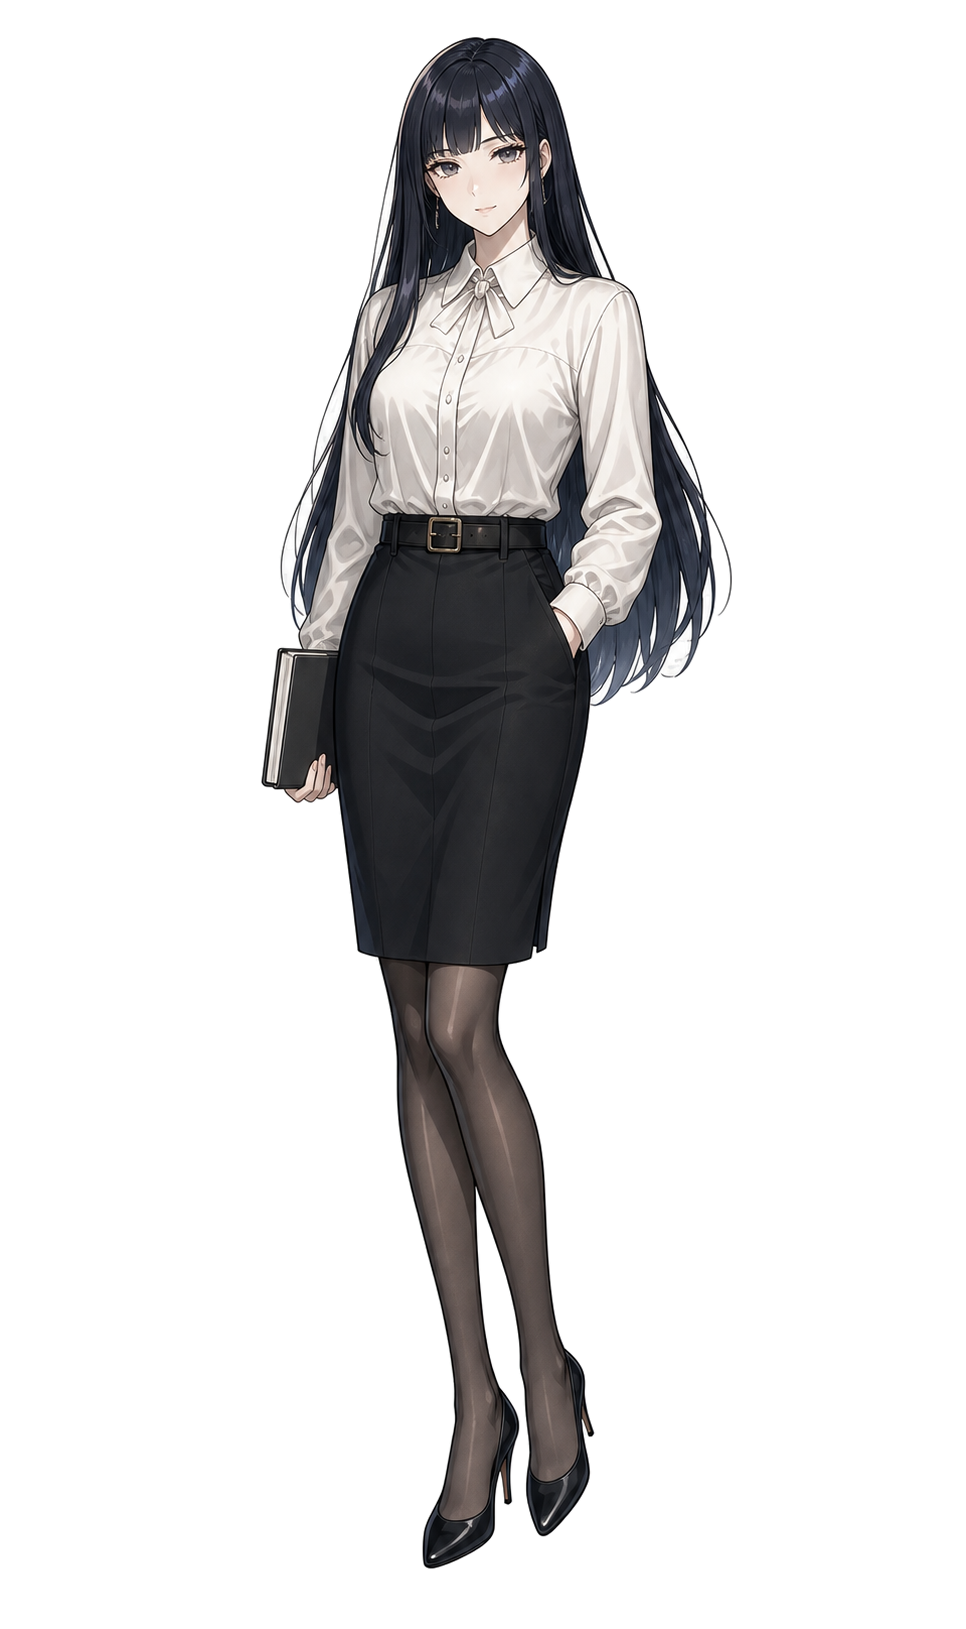
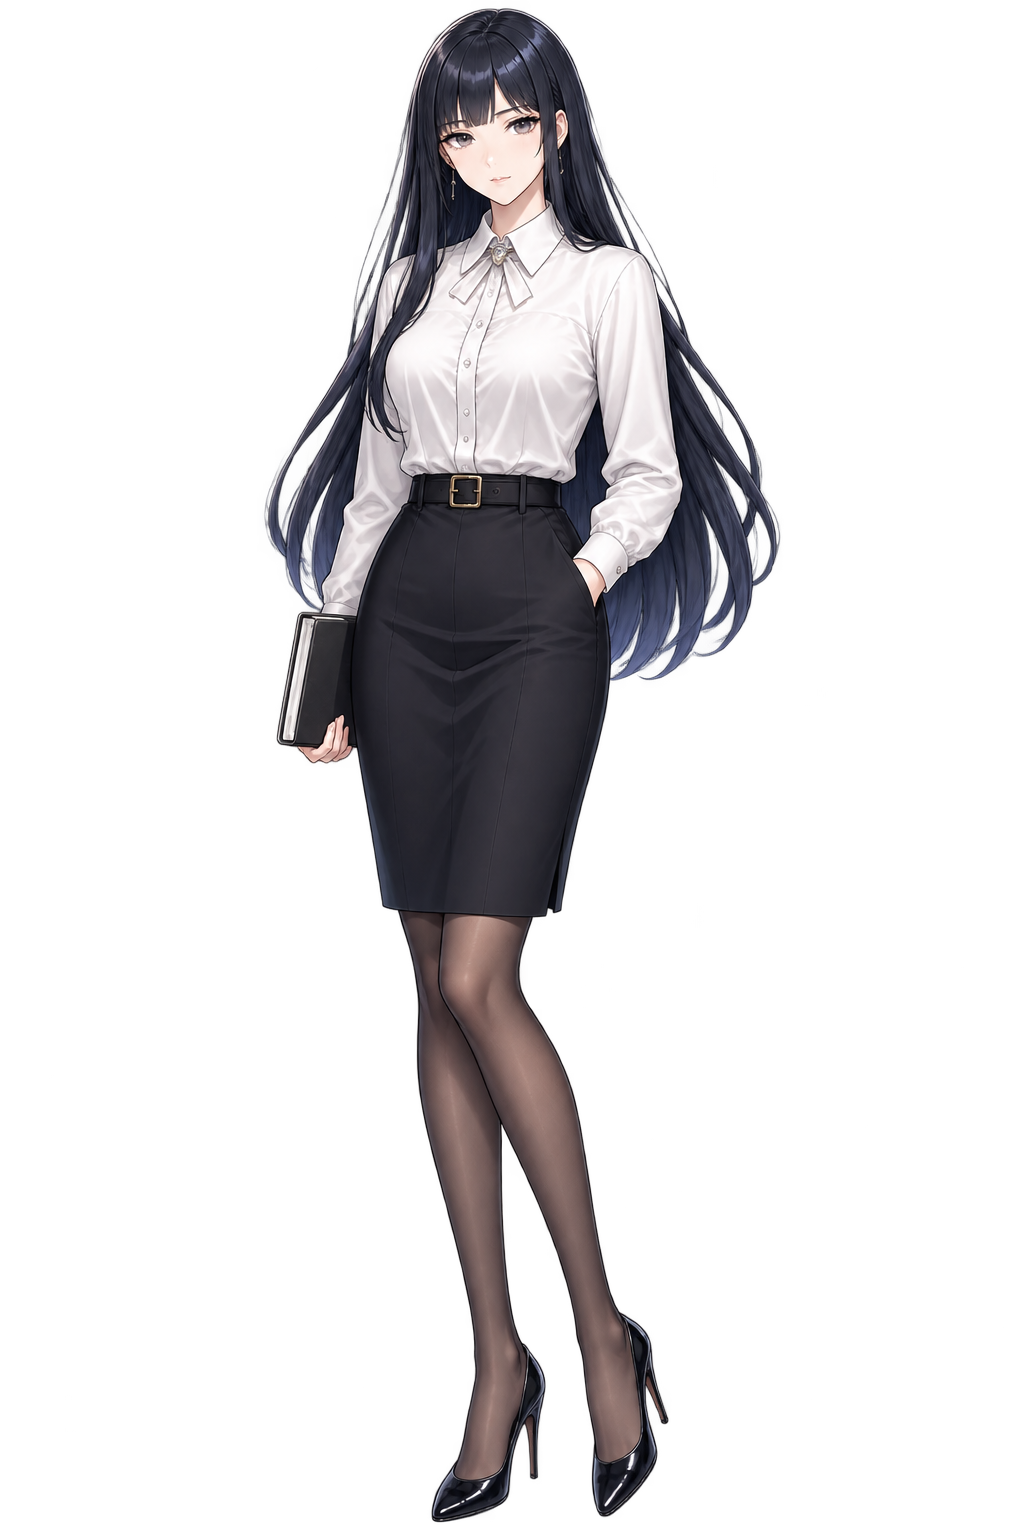
Polish onboarding and restore game controls

Changed region(s): [[0.2484, 0.0, 0.7764, 0.5938], [0.3727, 0.5625, 0.6522, 1.0]]

diff --git a/game.js b/game.js
@@ -676,10 +676,10 @@ function renderModeSetup() {
 function renderGirlfriendSetup() {
   document.body.classList.remove("mode-select-stage");
   onboarding.step=2; setOnboardingProgress(2);
-  const candidates = HEROINE_PROFILES.slice(0,3);
+  const candidates = ["haeun","nari","yuri"].map(id=>HEROINE_PROFILES.find(profile=>profile.id===id)).filter(Boolean);
   $("#onboardingContent").innerHTML = `
     <header class="setup-heading"><span>GIRLFRIEND SELECT</span><h1>여자친구 캐릭터 선택</h1><p>보라색 머리 캐릭터를 선택한 뒤 MBTI와 직업을 확인하세요. 이름은 그대로 유지됩니다.</p></header>
-    <div class="setup-card-grid heroine-select-grid">${candidates.map((profile,index)=>`<button class="setup-character-card ${onboarding.partner?.heroineId===profile.id?"selected":""}" data-heroine="${profile.id}" type="button" ${index?"disabled":""}><img src="${profile.referenceImage}?v=7" alt="${escapeHtml(profile.name)}"><strong>${escapeHtml(profile.name)}</strong><span>${index?"준비 중 · 선택 불가":"선택 가능"}</span></button>`).join("")}</div>
+    <div class="setup-card-grid heroine-select-grid">${candidates.map((profile,index)=>{const image=profile.id==="yuri"?"assets/heroines/yuri/yuri-ex-girlfriend-2d.png?v=2":`${profile.referenceImage}?v=7`;return `<button class="setup-character-card ${onboarding.partner?.heroineId===profile.id?"selected":""}" data-heroine="${profile.id}" type="button" ${index?"disabled":""}><img src="${image}" alt="${escapeHtml(profile.name)}"><strong>${escapeHtml(profile.name)}</strong><span>${index?"준비 중 · 선택 불가":"선택 가능"}</span></button>`;}).join("")}</div>
     <div class="roll-panel ${onboarding.partner?"":"locked"}">
       <div class="roll-row"><div><small>MBTI</small><b id="girlfriendTraitRoll">${onboarding.girlfriendTraitsReady?escapeHtml(onboarding.partner.mbti):"버튼을 눌러 MBTI 선택"}</b></div><button id="rollGirlfriendTraits" type="button" ${onboarding.partner?"":"disabled"}>MBTI 랜덤 선택</button></div>
       <div class="roll-row"><div><small>CAREER</small><b id="girlfriendJobRoll">${onboarding.girlfriendJobReady?escapeHtml(onboarding.partner.career.name):"여자친구의 직업"}</b></div><button id="rollGirlfriendJob" type="button" ${onboarding.partner?"":"disabled"}>직업 랜덤 선택</button></div>
@@ -717,15 +717,16 @@ function renderPlayerSetup() {
   $("#onboardingContent").innerHTML=`
     <header class="setup-heading"><span>PLAYER SETUP</span><h1>${storyMode?"이름과 직업 설정":"나의 외모 선택"}</h1><p>${storyMode?"STORY MODE의 주인공 외형은 고정됩니다. 이름과 직업만 선택해 주세요.":"외형과 이름, 직업은 게임의 능력치와 대사에 그대로 적용됩니다."}</p></header>
     <div class="setup-card-grid player-select-grid ${storyMode?"story-player-locked":""}">${PLAYER_ARCHETYPES.map((entry)=>{const fixed=storyMode&&entry.id==="balanced",locked=storyMode&&!fixed;return `<button class="setup-character-card ${onboarding.playerArchetype===entry.id?"selected":""} ${locked?"story-locked":""}" data-player="${entry.id}" type="button" ${storyMode?'disabled aria-disabled="true"':""}><img src="${entry.image}" alt="${entry.name}"><strong>${entry.name}${entry.premium?" · PREMIUM":""}</strong><span>${fixed?"STORY MODE 고정":locked?"🔒 STORY MODE 잠금":`능력 ${entry.abilityRating} · 외모 ${entry.appearanceRating}`}</span><small>${locked?"FREE MODE에서 선택할 수 있습니다.":entry.description}</small></button>`;}).join("")}</div>
-    <div class="player-input-panel"><label for="playerNameInput">내 이름 <small>최대 3글자 · 한글 또는 영문</small></label><div class="player-name-roll"><input id="playerNameInput" value="${escapeHtml(onboarding.playerName)}" placeholder="이름" autocomplete="off" spellcheck="false" inputmode="text" aria-describedby="playerNameNotice"><button id="rollPlayerName" type="button">내 이름 랜덤 선택</button></div><small id="playerNameNotice" class="player-name-notice" aria-live="polite"></small><div class="roll-row"><div><small>MY CAREER</small><b id="playerJobRoll">${onboarding.playerJob?escapeHtml(onboarding.playerJob.name):"버튼을 눌러 직업 선택"}</b></div><button id="rollPlayerJob" type="button">내 직업 랜덤 선택</button></div></div>
+    <div class="player-input-panel"><label for="playerNameInput">남자친구 이름 <small>최대 3글자 · 한글 또는 영문</small></label><div class="player-name-roll"><input id="playerNameInput" value="${escapeHtml(onboarding.playerName)}" placeholder="이름을 직접 입력하세요" autocomplete="off" spellcheck="false" inputmode="text" aria-describedby="playerNameNotice"><button id="rollPlayerName" type="button">내 이름 랜덤 선택</button></div><small id="playerNameNotice" class="player-name-notice" aria-live="polite"></small><div class="roll-row"><div><small>MY CAREER</small><b id="playerJobRoll">${onboarding.playerJob?escapeHtml(onboarding.playerJob.name):"버튼을 눌러 직업 선택"}</b></div><button id="rollPlayerJob" type="button">내 직업 랜덤 선택</button></div></div>
     <button id="playerSetupNext" class="primary-button setup-next" type="button" ${onboarding.playerArchetype&&onboarding.playerName&&onboarding.playerJob?"":"disabled"}>최종 결과 확인</button>`;
   if(!storyMode)document.querySelectorAll("[data-player]").forEach((button)=>button.addEventListener("click",()=>{const archetype=PLAYER_ARCHETYPES.find((entry)=>entry.id===button.dataset.player);if(archetype.premium)showPremiumConfirmation(archetype);else selectPlayerArchetype(archetype.id);}));
   const nameInput=$("#playerNameInput");
   let composingName=false;
-  const commitPlayerName=()=>{const result=sanitizePlayerNameInput(nameInput.value);onboarding.playerName=result.value;nameInput.value=result.value;$("#playerNameNotice").textContent=result.reason;$("#playerNameNotice").classList.toggle("warning",Boolean(result.reason));$("#playerSetupNext").disabled=!(onboarding.playerArchetype&&onboarding.playerName&&onboarding.playerJob);};
+  const commitPlayerName=(normalizeField=false)=>{const result=sanitizePlayerNameInput(nameInput.value);onboarding.playerName=result.value;if(normalizeField)nameInput.value=result.value;$("#playerNameNotice").textContent=result.reason;$("#playerNameNotice").classList.toggle("warning",Boolean(result.reason));$("#playerSetupNext").disabled=!(onboarding.playerArchetype&&onboarding.playerName&&onboarding.playerJob);};
   nameInput.addEventListener("compositionstart",()=>{composingName=true;});
-  nameInput.addEventListener("compositionend",()=>{composingName=false;commitPlayerName();});
-  nameInput.addEventListener("input",()=>{if(!composingName)commitPlayerName();});
+  nameInput.addEventListener("compositionend",()=>{composingName=false;commitPlayerName(true);});
+  nameInput.addEventListener("input",()=>{if(!composingName)commitPlayerName(false);});
+  nameInput.addEventListener("blur",()=>commitPlayerName(true));
   $("#rollPlayerName").addEventListener("click",()=>{onboarding.playerName=getRandomPlayerName(onboarding.playerName);$("#playerNameInput").value=onboarding.playerName;$("#playerNameNotice").textContent="200개 이름 중 하나를 선택했어요.";$("#playerNameNotice").classList.remove("warning");$("#playerSetupNext").disabled=!(onboarding.playerArchetype&&onboarding.playerName&&onboarding.playerJob);});
   $("#rollPlayerJob").addEventListener("click",(event)=>runRoll(event.currentTarget,$("#playerJobRoll"),JOBS.map((job)=>job.name),()=>{onboarding.playerJob=generateJob();$("#playerSetupNext").disabled=!(onboarding.playerArchetype&&onboarding.playerName);return onboarding.playerJob.name;}));
   $("#playerSetupNext").addEventListener("click",renderSetupSummary);
@@ -847,7 +848,7 @@ function render() {
   $("#affectionValue").textContent = Math.round(state.affection); $("#trustValue").textContent = Math.round(state.trust);
   $("#affectionBar").style.width = `${state.affection/10}%`; $("#trustBar").style.width = `${state.trust/10}%`;
   const traitRows = getVisibleTraitRows(state); const revealedCount = traitRows.filter(row => row.revealed).length;
-  $("#moneyValue").textContent = money(state.money); $("#jobValue").textContent = `${state.player.name} · ${state.job.name} · Lv.${state.jobLevel}`; $("#traitProgress").textContent = `${revealedCount} / 5`;
+  $("#moneyValue").textContent = money(state.money); $("#traitProgress").textContent = `${revealedCount} / 5`;
   $("#playerProfileImage").src=state.player.image;$("#playerProfileImage").alt=`${state.player.name} 주인공 이미지`;$("#playerProfileName").textContent=state.player.name;$("#playerProfileJob").textContent=state.job.name;
   $("#lifeStatus").textContent = state.fatigue >= 70 ? "피로가 누적되는 중" : state.stress > 75 ? "한계에 가까움" : state.energy < 25 ? "휴식이 필요함" : state.confidence >= 70 ? "자신감이 넘치는 중" : state.affection > 750 ? "사랑이 깊어지는 중" : "나쁘지 않은 하루";
   $("#traitList").innerHTML = traitRows.map(row => row.revealed ? `<div class="trait"><span>${row.name}</span><b>${row.value}</b></div>` : `<div class="trait locked"><span>${row.name}</span><b>${row.confidence ? `${row.hint} · ${row.confidence}%` : "???"}</b></div>`).join("");
@@ -1397,7 +1398,7 @@ function renderGameTools() {
     const equipped=getEquippedHeroineOutfit(state),outfits=HEROINE_OUTFITS.filter(item=>item.heroineId===state.partner.heroineId);
     content.innerHTML=`<div class="game-tools-intro"><b>${escapeHtml(state.partner.name)} 전체 의상</b><span>잠금·보유 조건과 관계없이 미리 보고 바로 선택할 수 있습니다.</span></div><div class="tools-outfit-grid">${outfits.map((outfit,index)=>`<button type="button" data-tools-outfit="${outfit.id}" class="tools-outfit-card ${equipped?.id===outfit.id?"selected":""}"><img src="${outfitImageUrl(outfit)}" alt="${escapeHtml(outfit.name)}" loading="lazy"><span>${outfit.eventOnly?"이벤트 의상":String(index+1).padStart(2,"0")}</span><b>${escapeHtml(outfit.name.replace(`${state.partner.name} · `,""))}</b><small>${outfit.eventOnly?"근사한 데이트 10회 보상":money(outfit.price)} · ${equipped?.id===outfit.id?"현재 착용 중":"이 의상 선택"}</small></button>`).join("")}</div>`;
   }else if(gameToolsTab==="yuri"){
-    content.innerHTML=`<div class="game-tools-intro"><b>전여자친구 · 유리</b><span>특별 이벤트에서 등장하는 유리를 미리 확인하고 가운데 패널 이벤트를 실행할 수 있습니다.</span></div><article class="tools-yuri-card"><div class="tools-yuri-media"><img src="assets/heroines/yuri/yuri-ex-girlfriend-2d.png" alt="전여자친구 유리"><video src="assets/heroines/yuri/yuri-ex-girlfriend-2d_transparent.webm?v=1" autoplay loop muted playsinline aria-label="전여자친구 유리 특별 이벤트 영상"></video></div><div class="tools-yuri-copy"><span>SPECIAL EVENT CHARACTER</span><h3>전여자친구 유리</h3><p>고서 복원가 · 차분하고 쉽게 속내를 읽을 수 없는 옛 연인</p>${yuriEvent?`<button type="button" data-tools-yuri-event="${yuriEvent.id}">가운데 패널에서 특별 이벤트 실행</button>`:`<small>연결된 특별 이벤트가 없습니다.</small>`}</div></article>`;
+    content.innerHTML=`<div class="game-tools-intro"><b>전여자친구 · 유리</b><span>특별 이벤트에서 등장하는 유리를 미리 확인하고 가운데 패널 이벤트를 실행할 수 있습니다.</span></div><article class="tools-yuri-card"><div class="tools-yuri-media"><img src="assets/heroines/yuri/yuri-ex-girlfriend-2d.png?v=2" alt="전여자친구 유리"><video src="assets/heroines/yuri/yuri-ex-girlfriend-2d_transparent.webm?v=1" autoplay loop muted playsinline aria-label="전여자친구 유리 특별 이벤트 영상"></video></div><div class="tools-yuri-copy"><span>SPECIAL EVENT CHARACTER</span><h3>전여자친구 유리</h3><p>고서 복원가 · 차분하고 쉽게 속내를 읽을 수 없는 옛 연인</p>${yuriEvent?`<button type="button" data-tools-yuri-event="${yuriEvent.id}">가운데 패널에서 특별 이벤트 실행</button>`:`<small>연결된 특별 이벤트가 없습니다.</small>`}</div></article>`;
   }else if(gameToolsTab==="events"){
     const groups=SITUATION_EVENTS.reduce((result,event)=>{(result[event.categoryLabel]??=[]).push(event);return result;},{});
     const invitation=getPendingLateNightInvitation(state),invitationStatus=invitation?"메시지 도착":state.nightState?.lateNightInvitation?.status==="completed"?"완료":state.day>=LATE_NIGHT_INVITATION_MIN_DAY?"발생 가능":"DAY 6 잠금";

diff --git a/styles.css b/styles.css
@@ -202,6 +202,9 @@ body.ui-classic-mode{overflow:auto;background:var(--bg)}
 .setup-character-card.selected{border:4px solid #cf315f;background:#fff8fb;box-shadow:0 0 0 3px #f5b4c8,0 22px 52px #8c315044;transform:translateY(-5px)}
 .setup-character-card.selected::after{content:"✓ 선택됨";position:absolute;z-index:2;top:14px;right:14px;padding:7px 11px;border:2px solid #fff;border-radius:999px;background:#cf315f;color:#fff;box-shadow:0 6px 18px #70263e55;font:700 10px Outfit;letter-spacing:.04em}
 .player-name-roll{display:grid;grid-template-columns:minmax(0,1fr) auto;gap:9px}.player-name-roll input{width:100%;min-width:0;padding:14px;border:1px solid #ddccd4;border-radius:12px;background:#fff;font-size:16px}.player-name-roll input:focus{outline:0;border-color:#d45579;box-shadow:0 0 0 3px #e8638718}.player-name-roll button{padding:0 16px;border:1px solid #decbd4;border-radius:12px;background:#fff5f8;color:#8a3f59;font-weight:700;cursor:pointer}.player-name-roll button:hover{border-color:#d45579;background:#ffeaf1}@media(max-width:520px){.player-name-roll{grid-template-columns:1fr}.player-name-roll button{min-height:42px}}
+
+/* Keep every onboarding random-selection control equally prominent. */
+.player-name-roll{grid-template-columns:minmax(0,1fr) 190px}.player-name-roll input{position:relative;z-index:1;box-sizing:border-box;pointer-events:auto;user-select:text}.player-name-roll button,.roll-row button{box-sizing:border-box;width:190px;min-height:48px;padding:0 16px;font-size:12px;font-weight:700}.player-input-panel .roll-row button{flex:0 0 190px}@media(max-width:760px){.player-name-roll button,.roll-row button,.player-input-panel .roll-row button{width:100%;flex-basis:auto}}
 .player-name-notice{min-height:16px;color:#7f7480;font-size:10px;line-height:1.45}.player-name-notice.warning{color:#c23f5d;font-weight:700}
 .conversation-effect-limit{margin:12px 0 0!important;color:#8b7d86!important;font-size:10px;text-align:center}
 @media(max-width:760px){.onboarding-screen{padding-top:12px}.heroine-select-grid,.player-select-grid{grid-template-columns:1fr}.setup-character-card{grid-template-columns:112px 1fr;align-items:center;padding:0 12px 0 0}.setup-character-card img{grid-row:1/4;width:112px;height:150px}.setup-character-card strong,.setup-character-card span,.setup-character-card small{margin:0}.roll-row{align-items:stretch;flex-direction:column}.roll-row button{width:100%}.setup-summary{grid-template-columns:1fr}.setup-summary>img{height:330px}.setup-summary>div:not(.summary-partner){padding:0 20px 120px}.summary-partner{right:20px;bottom:20px;left:20px}.story-intro-copy{right:3%;bottom:3%;left:3%;width:auto}.story-intro-copy h2{font-size:20px}}
@@ -794,6 +797,12 @@ body.ui-classic-mode{overflow:auto;background:var(--bg)}
 .girlfriend-wardrobe-empty{display:grid;grid-template-columns:32px 1fr;grid-template-rows:auto auto;align-content:center;column-gap:9px;width:100%;min-height:88px;padding:0 12px;border:1px dashed #dfd3da;border-radius:13px;color:#8d7f88}.girlfriend-wardrobe-empty>span{grid-row:1/3;font-size:24px}.girlfriend-wardrobe-empty>b{font-size:10px}.girlfriend-wardrobe-empty>small{font-size:8px}
 .main-quick-actions{display:grid;grid-template-columns:1fr 1fr;gap:8px;margin-top:2px;padding-top:7px;border-top:1px solid var(--line)}.main-quick-button{display:grid;grid-template-columns:24px minmax(0,1fr);grid-template-rows:auto auto;align-items:center;column-gap:7px;min-width:0;padding:8px 10px;border:1px solid #eadfe6;border-radius:12px;background:#faf7f9;color:var(--ink);text-align:left;cursor:pointer;transition:.18s}.main-quick-button>span{grid-row:1/3;display:grid;place-items:center;width:24px;height:24px;border-radius:8px;background:#f5e7ed;font-size:13px}.main-quick-button b{overflow:hidden;font-size:9px;white-space:nowrap;text-overflow:ellipsis}.main-quick-button small{overflow:hidden;color:var(--muted);font-size:7px;white-space:nowrap;text-overflow:ellipsis}.main-quick-button:hover,.main-quick-button:focus-visible{border-color:var(--pink);background:#fff5f8;transform:translateY(-1px)}.girlfriend-warehouse-panel{position:relative}
 .purchased-item-storage{display:grid;gap:7px;margin-top:7px;padding-top:7px;border-top:1px solid var(--line)}.purchased-storage-title{display:flex;align-items:center;justify-content:space-between}.purchased-storage-title h3{margin:0;font-size:10px}.purchased-storage-title span{color:var(--muted);font-size:8px}.purchased-storage-grid{display:grid;grid-template-columns:1fr 1fr;gap:8px}.purchased-owner-group{display:grid;grid-template-columns:64px minmax(0,1fr);align-items:center;gap:7px;min-width:0;padding:6px;border:1px solid #eadfe6;border-radius:12px;background:#faf7f9}.purchased-owner-group>header{display:grid;justify-items:center;gap:3px;min-width:0;color:var(--pink)}.purchased-owner-group>header span{display:grid;place-items:center;width:24px;height:24px;border-radius:8px;background:#f6e8ee}.purchased-owner-group>header b{overflow:hidden;max-width:60px;color:var(--ink);font-size:8px;text-overflow:ellipsis;white-space:nowrap}.purchased-owner-items{display:grid;grid-template-columns:repeat(3,minmax(0,1fr));gap:5px;min-width:0}.purchased-item-slot{display:grid;justify-items:center;align-content:center;gap:3px;min-width:0;height:64px;padding:3px;border:1px solid #e8dfe4;border-radius:9px;background:#fff;color:var(--ink);cursor:pointer}.purchased-item-slot img{display:block;width:38px;height:42px;object-fit:contain}.purchased-item-slot>span{display:grid;place-items:center;width:38px;height:42px;font-size:23px}.purchased-item-slot b{overflow:hidden;width:100%;font-size:7px;text-align:center;text-overflow:ellipsis;white-space:nowrap}.purchased-item-slot:hover,.purchased-item-slot:focus-visible{border-color:var(--pink);background:#fff4f7;outline:0}.purchased-item-slot.empty{border-style:dashed;color:#b8abb2;cursor:default}.purchased-item-slot.empty i{font-size:18px;font-style:normal}.life-quick-actions{display:grid;grid-template-columns:1fr 1fr;gap:7px;margin:4px 0 12px}.life-quick-button{display:grid;grid-template-columns:27px minmax(0,1fr);grid-template-rows:auto auto;align-items:center;gap:2px 7px;min-width:0;padding:9px 8px;border:1px solid #e9dfe5;border-radius:12px;background:#faf7f9;color:var(--ink);text-align:left;cursor:pointer}.life-quick-button>span{grid-row:1/3;display:grid;place-items:center;width:27px;height:27px;border-radius:9px;background:#f3e8ee;font-size:13px}.life-quick-button b,.life-quick-button small{overflow:hidden;text-overflow:ellipsis;white-space:nowrap}.life-quick-button b{font-size:9px}.life-quick-button small{color:var(--muted);font-size:7px}.life-quick-button:hover,.life-quick-button:focus-visible{border-color:var(--pink);background:#fff3f7;outline:0}.modal.item-detail-active .modal-card{width:min(420px,92vw);max-height:88dvh;padding:26px}.stored-item-detail{display:grid;justify-items:center;text-align:center}.stored-item-detail>.eyebrow{justify-self:start}.stored-item-detail>img{display:block;width:min(190px,52vw);height:210px;margin:8px 0 12px;object-fit:contain;border-radius:17px;background:#f6f1f4}.stored-item-detail-icon{display:grid;place-items:center;width:160px;height:170px;margin:8px 0 12px;border-radius:17px;background:#f6f1f4;font-size:68px}.stored-item-detail h2{margin:2px 0 5px;font-size:22px}.stored-item-detail p{margin:0;color:var(--muted);font-size:12px}.stored-item-meta{display:flex;justify-content:space-between;width:100%;margin:14px 0;padding:11px 13px;box-sizing:border-box;border-radius:11px;background:#f7f3f5;font-size:11px}.stored-item-detail>.primary-button{width:100%;margin:0}
+
+/* Right-side life panel actions use one full-width row each. */
+.life-quick-actions{grid-template-columns:1fr;gap:9px;margin:8px 0 14px}.life-quick-button{grid-template-columns:38px minmax(0,1fr);min-height:58px;padding:11px 13px;gap:3px 11px}.life-quick-button>span{width:38px;height:38px;font-size:17px}.life-quick-button b{font-size:13px}.life-quick-button small{font-size:9px}
+
+/* Keep menu and window controls visible in campaign/theater layouts. */
+body.campaign-story-mode:not(.ui-night-mode) .top-actions{display:flex!important}.theater-mode .topbar .top-actions #menuButton,.theater-mode .topbar .top-actions #fullscreenButton,.theater-mode .topbar .top-actions #soundButton,.theater-mode .topbar .top-actions #resetButton{display:inline-flex!important}.theater-mode .topbar{right:10px;left:auto;opacity:1}.theater-mode.ui-story-mode .topbar{display:flex}
 .girlfriend-warehouse-panel,.ui-classic-mode .classic-mode .girlfriend-warehouse-panel{overflow:visible}
 @media(max-width:760px){.purchased-storage-grid{grid-template-columns:1fr}.purchased-owner-group{grid-template-columns:72px minmax(0,1fr)}.life-quick-actions{grid-column:1/-1}.stored-item-detail>img{height:180px}}
 .modal.today-record-active{padding:12px;background:#17121f99;backdrop-filter:blur(10px)}.modal.today-record-active .modal-card{box-sizing:border-box;width:min(760px,95vw);height:min(780px,92dvh);max-height:92dvh;padding:34px 34px 28px;overflow:hidden}.today-record-active #modalContent{height:100%}.today-record-popup{display:grid;grid-template-rows:auto minmax(0,1fr) auto;height:100%;min-height:0}.today-record-popup header{padding-right:30px;border-bottom:1px solid var(--line)}.today-record-popup header h2{margin-bottom:4px}.today-record-popup header p{margin:0 0 17px}.today-record-popup .dialogue-history{align-content:start;overflow:auto;padding:18px 4px 18px 0}.today-record-popup .history-entry{padding:17px 19px}.today-record-popup .history-entry small{font-size:10px}.today-record-popup .history-entry p{font-size:14px;line-height:1.65}.today-record-popup>.primary-button{width:100%;margin:0}.today-record-active .modal-close{z-index:2}

diff --git a/index.html b/index.html
@@ -162,7 +162,7 @@
           <div><small>PLAYER</small><strong id="playerProfileName">나</strong><b id="playerProfileJob">직업</b></div>
         </div>
         <div class="section-title"><h3>나의 하루</h3><span id="lifeStatus">괜찮은 시작</span></div>
-        <div class="money-card"><small>보유 자산</small><strong id="moneyValue">₩ 850,000</strong><span id="jobValue">주니어 기획자</span></div>
+        <div class="money-card"><small>보유 자산</small><strong id="moneyValue">₩ 850,000</strong></div>
         <div id="statList" class="stat-list"></div>
         <div class="life-quick-actions" aria-label="기록과 인맥">
           <button id="todayRecordButton" class="life-quick-button" type="button" aria-haspopup="dialog"><span aria-hidden="true">☷</span><b>오늘의 기록</b><small id="turnCount">첫 번째 선택</small></button>
